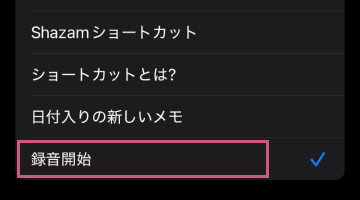
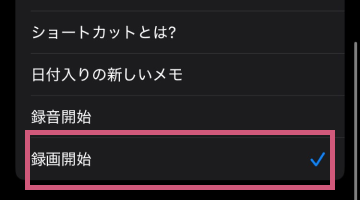
録画機能起動しない問題修正 説明文画像修正 3 Tap Videoに修正

diff --git a/App.tsx b/App.tsx
@@ -115,7 +115,28 @@ const App = (): React.JSX.Element => {
         loadRecordingFiles();
       }
     });
-    return () => sub.remove();
+
+    // URLスキーム起動（ショートカット）時に状態を強制同期
+    const handleURL = () => {
+      // ネイティブ側の録画開始は非同期＆タイミング依存なので数回リトライして取りこぼしを防ぐ
+      const delays = [0, 250, 750, 1500];
+      delays.forEach(ms => {
+        setTimeout(() => {
+          syncRecordingState();
+          loadRecordingFiles();
+        }, ms);
+      });
+    };
+    const urlSub = Linking.addEventListener('url', handleURL);
+    Linking.getInitialURL().then(url => {
+      if (url) {
+        handleURL();
+      }
+    });
+    return () => {
+      sub.remove();
+      urlSub.remove();
+    };
   }, [syncRecordingState, loadRecordingFiles]);
 
   const ensurePermission = useCallback(async () => {
@@ -195,6 +216,31 @@ const App = (): React.JSX.Element => {
     );
   }, [ensurePermission]);
 
+  const startRecording = useCallback(async () => {
+    if (!recorderModule) {
+      Alert.alert('iOS専用機能', '録画機能はiOSデバイスでのみ利用できます。');
+      return;
+    }
+    try {
+      const granted = await recorderModule.requestPermission();
+      if (!granted) {
+        Alert.alert(
+          'カメラ/マイク権限が必要です',
+          '設定アプリでカメラ/マイク権限を許可してからもう一度お試しください。',
+        );
+        return;
+      }
+      setPermissionChecked(true);
+      await recorderModule.startRecording();
+      // すぐに反映されない場合があるため、少し待ってから状態再同期
+      setTimeout(() => {
+        syncRecordingState();
+      }, 300);
+    } catch (error) {
+      Alert.alert('録画開始に失敗しました', String(error));
+    }
+  }, [syncRecordingState]);
+
   const stopRecording = useCallback(async () => {
     if (!recorderModule) {
       Alert.alert('iOS専用機能', '録画機能はiOSデバイスでのみ利用できます。');
@@ -219,8 +265,8 @@ const App = (): React.JSX.Element => {
     () => [
       '設定アプリ > アクセシビリティ > タッチ > 背面タップ を開きます。',
       '「トリプルタップ」に「ショートカット」を割り当てます。',
-      'ショートカットで「URLを開く」を追加し、URLに 3tapvideo://start を入力します。',
-      '停止用に 3tapvideo://stop を割り当てたショートカットを作ると便利です。',
+      'ショートカットで「URLを開く」を追加し、URLに tapvideo3://start を入力します。',
+      '停止用に tapvideo3://stop を割り当てたショートカットを作ると便利です。',
       '録画停止はこのアプリの「録画停止」ボタンで行います。',
     ],
     [],
@@ -253,7 +299,7 @@ const App = (): React.JSX.Element => {
           '5. 名前を「録画開始」にして完了',
         actionLabel: 'ショートカットを開く',
         onAction: openShortcuts,
-        copyableText: '3tapvideo://start',
+        copyableText: 'tapvideo3://start',
         image: require('./assets/instructions/how to2.png'),
       },
       {
@@ -289,7 +335,7 @@ const App = (): React.JSX.Element => {
         subtitle: '保存した動画を再生する',
         description:
           '1.「ファイル」アプリを開く\n' +
-          '2.「このiPhone内」→「3タップビデオ」\n' +
+          '2.「このiPhone内」→「3 Tap Video」\n' +
           '3. 3tapvideo-日時.mov が録画ファイル\n' +
           '4. タップして再生できます\n\n' +
           '※ファイル名の日時は録画開始時刻です',
@@ -333,16 +379,23 @@ const App = (): React.JSX.Element => {
               ]}>
               {isRecording ? '録画中' : '待機中'}
             </Text>
+            {isRecording ? (
+              <Pressable style={styles.stopButton} onPress={stopRecording}>
+                <Text style={styles.stopButtonText}>録画停止</Text>
+              </Pressable>
+            ) : (
+              <Pressable style={styles.startButton} onPress={startRecording}>
+                <Text style={styles.startButtonText}>録画開始</Text>
+              </Pressable>
+            )}
+
             <Pressable
-              style={[
-                styles.stopButton,
-                !isRecording && styles.stopButtonDisabled,
-              ]}
-              onPress={stopRecording}
-              disabled={!isRecording}>
-              <Text style={styles.stopButtonText}>
-                {isRecording ? '録画停止' : '録画は待機中'}
-              </Text>
+              style={styles.filesButton}
+              onPress={async () => {
+                await loadRecordingFiles();
+                setShowFilesModal(true);
+              }}>
+              <Text style={styles.filesButtonText}>録画ファイル一覧</Text>
             </Pressable>
 
             <View style={styles.legalGuideCard}>
@@ -368,7 +421,7 @@ const App = (): React.JSX.Element => {
           </View>
 
           <View style={styles.settingSection}>
-            <Text style={styles.settingTitle}>3タップビデオの使い方</Text>
+            <Text style={styles.settingTitle}>3 Tap Video の使い方</Text>
             <View style={styles.settingList}>
               {settingSlides.map(slide => (
                 <View key={slide.id} style={styles.settingItem}>
@@ -413,7 +466,7 @@ const App = (): React.JSX.Element => {
               背面トリプルタップを有効にしますか？
             </Text>
             <Text style={styles.modalDescription}>
-              3タップビデオを使用するには、背面3回タップで録画を開始できるようショートカットを設定する必要があります。
+              3 Tap Video を使用するには、背面3回タップで録画を開始できるようショートカットを設定する必要があります。
             </Text>
             <View style={styles.modalActions}>
               <Pressable
@@ -623,13 +676,22 @@ const styles = StyleSheet.create({
     paddingVertical: 12,
     alignItems: 'center',
   },
-  stopButtonDisabled: {
-    opacity: 0.5,
-  },
   stopButtonText: {
     color: '#fff',
     fontSize: 16,
     fontWeight: '600',
+    fontFamily: 'HiraginoMincho-W6',
+  },
+  startButton: {
+    backgroundColor: '#6fb1ff',
+    borderRadius: 999,
+    paddingVertical: 12,
+    alignItems: 'center',
+  },
+  startButtonText: {
+    color: '#0f1424',
+    fontSize: 16,
+    fontWeight: '700',
     fontFamily: 'HiraginoMincho-W6',
   },
   legalGuideCard: {

diff --git a/ios/StealthVideo/RecorderManager.swift b/ios/StealthVideo/RecorderManager.swift
@@ -12,6 +12,9 @@ public class RecorderManager: NSObject, AVCaptureFileOutputRecordingDelegate {
     return formatter
   }()
 
+  // AVCaptureSession.startRunning() はメインスレッドだと警告が出るため、専用キューで扱う
+  private static let sessionQueue = DispatchQueue(label: "jp.tapvideo3.recorder.session", qos: .userInitiated)
+
   // 全インスタンスで共有する（URLスキーム起動とRN呼び出しで状態を共有するため）
   private static var captureSession: AVCaptureSession?
   private static var movieOutput: AVCaptureMovieFileOutput?
@@ -59,12 +62,16 @@ public class RecorderManager: NSObject, AVCaptureFileOutputRecordingDelegate {
     _ resolve: @escaping RCTPromiseResolveBlock,
     rejecter reject: @escaping RCTPromiseRejectBlock
   ) {
-    DispatchQueue.main.async {
+    RecorderManager.sessionQueue.async {
       do {
         let fileName = try RecorderManager.beginRecording(delegate: RecorderManager.shared)
-        resolve(fileName)
+        DispatchQueue.main.async {
+          resolve(fileName)
+        }
       } catch {
-        reject("recording_error", error.localizedDescription, error)
+        DispatchQueue.main.async {
+          reject("recording_error", error.localizedDescription, error)
+        }
       }
     }
   }
@@ -73,9 +80,11 @@ public class RecorderManager: NSObject, AVCaptureFileOutputRecordingDelegate {
     _ resolve: @escaping RCTPromiseResolveBlock,
     rejecter reject: @escaping RCTPromiseRejectBlock
   ) {
-    DispatchQueue.main.async {
+    RecorderManager.sessionQueue.async {
       let result = RecorderManager.stopRecordingInternal()
-      resolve(result)
+      DispatchQueue.main.async {
+        resolve(result)
+      }
     }
   }
 
@@ -157,7 +166,7 @@ public class RecorderManager: NSObject, AVCaptureFileOutputRecordingDelegate {
         group.leave()
       }
 
-      group.notify(queue: .main) {
+      group.notify(queue: RecorderManager.sessionQueue) {
         NSLog("[StealthVideo] Permission video=%@ audio=%@", videoGranted ? "YES" : "NO", audioGranted ? "YES" : "NO")
         guard videoGranted && audioGranted else {
           return
@@ -166,13 +175,16 @@ public class RecorderManager: NSObject, AVCaptureFileOutputRecordingDelegate {
           let fileName = try RecorderManager.beginRecording(delegate: RecorderManager.shared)
           NSLog("[StealthVideo] Recording started: %@", fileName)
         } catch {
-          NSLog("[StealthVideo] Recording failed: %@", error.localizedDescription)
+          let nsError = error as NSError
+          NSLog("[StealthVideo] Recording failed: %@ (domain=%@ code=%ld)", nsError.localizedDescription, nsError.domain, nsError.code)
         }
       }
 
     case "stop":
-      let result = RecorderManager.stopRecordingInternal()
-      NSLog("[StealthVideo] Recording stopped: %@", result)
+      RecorderManager.sessionQueue.async {
+        let result = RecorderManager.stopRecordingInternal()
+        NSLog("[StealthVideo] Recording stopped: %@", result)
+      }
 
     default:
       NSLog("[StealthVideo] Unknown action: %@", action)
@@ -192,11 +204,25 @@ public class RecorderManager: NSObject, AVCaptureFileOutputRecordingDelegate {
     return fileName
   }
 
+  private static func configureAudioSessionIfNeeded() throws {
+    // URLスキーム起動直後は音声セッションが未設定なことがあり、録画が即停止するケースがあるため明示的に設定する
+    let audioSession = AVAudioSession.sharedInstance()
+    if audioSession.category != .playAndRecord {
+      try audioSession.setCategory(.playAndRecord, mode: .videoRecording, options: [.defaultToSpeaker, .allowBluetooth])
+    }
+    if !audioSession.isOtherAudioPlaying {
+      try audioSession.setActive(true, options: [])
+    } else {
+      try audioSession.setActive(true, options: [])
+    }
+  }
+
   private static func beginRecording(delegate: AVCaptureFileOutputRecordingDelegate) throws -> String {
     if let output = movieOutput, output.isRecording, let url = currentRecordingURL {
       return url.lastPathComponent
     }
 
+    try configureAudioSessionIfNeeded()
     try configureSessionIfNeeded()
 
     guard let session = captureSession, let output = movieOutput else {
@@ -205,6 +231,15 @@ public class RecorderManager: NSObject, AVCaptureFileOutputRecordingDelegate {
 
     if !session.isRunning {
       session.startRunning()
+    }
+
+    // session.startRunning() 直後は接続が有効化されておらず MovieFileOutput が即停止することがあるため少し待つ
+    let deadline = Date().addingTimeInterval(1.0)
+    while Date() < deadline {
+      if let conn = output.connection(with: .video), conn.isActive {
+        break
+      }
+      Thread.sleep(forTimeInterval: 0.05)
     }
 
     let url = try makeMovieURL()
@@ -283,12 +318,36 @@ public class RecorderManager: NSObject, AVCaptureFileOutputRecordingDelegate {
 
   public func fileOutput(
     _ output: AVCaptureFileOutput,
+    didStartRecordingTo fileURL: URL,
+    from connections: [AVCaptureConnection]
+  ) {
+    NSLog("[StealthVideo] didStartRecording: %@", fileURL.lastPathComponent)
+  }
+
+  public func fileOutput(
+    _ output: AVCaptureFileOutput,
     didFinishRecordingTo outputFileURL: URL,
     from connections: [AVCaptureConnection],
     error: Error?
   ) {
+    defer {
+      // 録画が終了したら現在のURLをクリア（次回録画の整合性のため）
+      RecorderManager.currentRecordingURL = nil
+    }
+
     if let error {
-      NSLog("[StealthVideo] didFinishRecording error: %@", error.localizedDescription)
+      let nsError = error as NSError
+      let exists = FileManager.default.fileExists(atPath: outputFileURL.path)
+      let size = (try? FileManager.default.attributesOfItem(atPath: outputFileURL.path)[.size] as? NSNumber)?.intValue ?? -1
+      NSLog(
+        "[StealthVideo] didFinishRecording error: %@ (domain=%@ code=%ld) exists=%@ size=%d url=%@",
+        nsError.localizedDescription,
+        nsError.domain,
+        nsError.code,
+        exists ? "YES" : "NO",
+        size,
+        outputFileURL.path
+      )
     } else {
       NSLog("[StealthVideo] didFinishRecording: %@", outputFileURL.lastPathComponent)
     }

diff --git a/ios/StealthVideo/AppDelegate.mm b/ios/StealthVideo/AppDelegate.mm
@@ -2,6 +2,7 @@
 
 #import <React/RCTBundleURLProvider.h>
 #import <React/RCTBridgeModule.h>
+#import <React/RCTLinkingManager.h>
 #import <AVFoundation/AVFoundation.h>
 #import "StealthVideo-Swift.h"
 
@@ -35,12 +36,14 @@
             openURL:(NSURL *)url
             options:(NSDictionary<UIApplicationOpenURLOptionsKey,id> *)options
 {
-  if ([[url.scheme lowercaseString] isEqualToString:@"3tapvideo"]) {
+  if ([[url.scheme lowercaseString] isEqualToString:@"tapvideo3"]) {
     NSString *action = url.host ?: url.lastPathComponent;
     if (action.length == 0 && url.pathComponents.count > 1) {
       action = url.pathComponents[1];
     }
     [[RecorderManager sharedInstance] handleShortcutWithAction:action];
+    // RN側にもURLイベントを転送してUI状態更新のトリガーにする
+    [RCTLinkingManager application:app openURL:url options:options];
     return YES;
   }
   return [super application:app openURL:url options:options];
